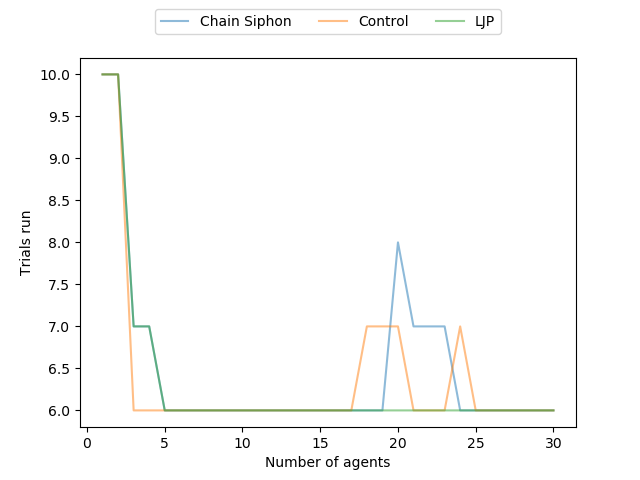
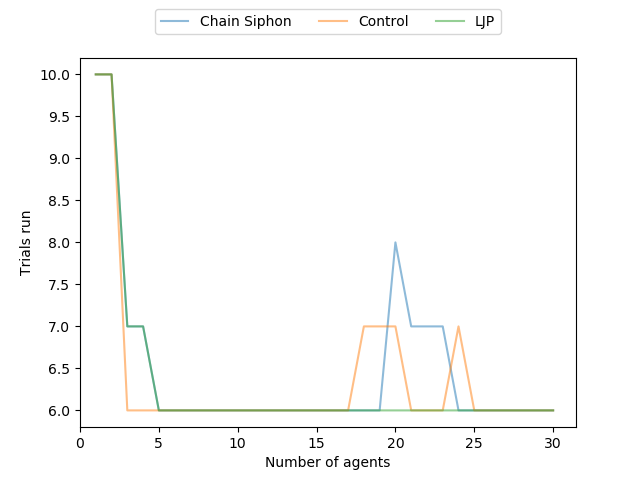
plots

diff --git a/chain_siphon/graphs.py b/chain_siphon/graphs.py
@@ -177,7 +177,7 @@ for folder in os.listdir(ROOT):
 
     plt.plot(keys, trials, alpha=.5, label=label)
     plt.xlabel('Number of agents')
-
+    plt.xlim(0,plt.xlim()[1])
     plt.ylabel('Trials run')
 
 plt.legend(loc='upper center', bbox_to_anchor=(0.5, 1.15), ncol=4)
